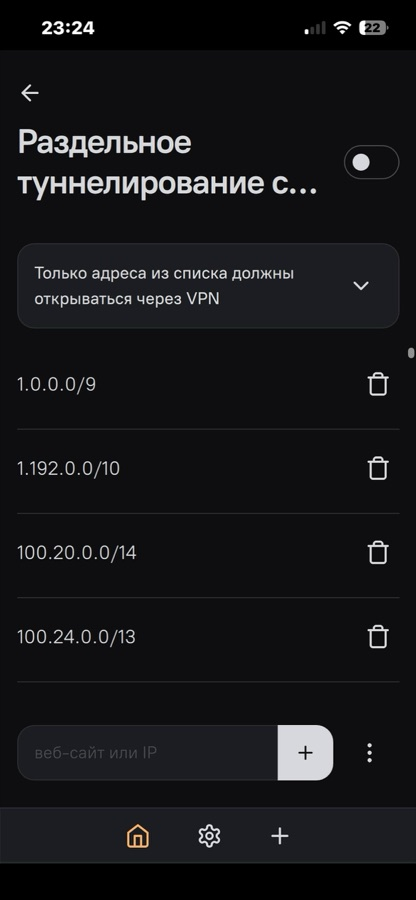
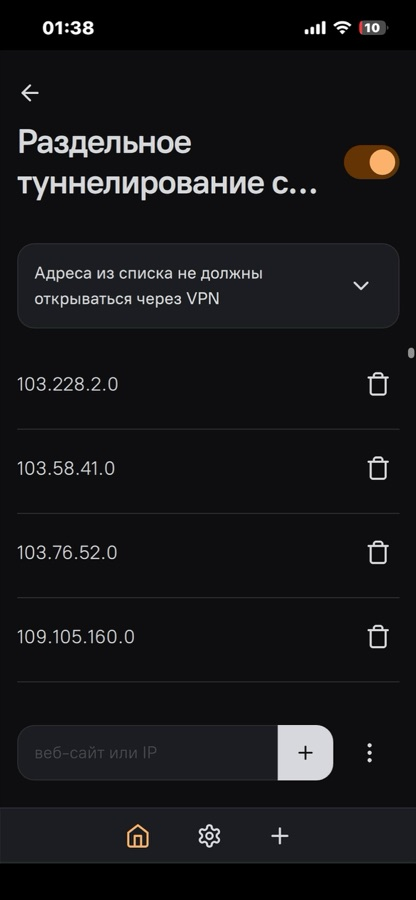
Телевизор в списке платформ, новый экран сплита, логотип с новым адресом
Логотип у людей оставался старым даже после выкладки: браузер держал
/assets/logo.png в своём кэше, а имя файла не менялось. Знак переехал на
logo-v2.png — новый адрес кэшировать нечем; иконки вкладки просят с ?v=2 по
той же причине.

Кнопки App Store и Google Play убраны из подвала: приложений в магазинах у
нас нет — Android ставится файлом с сайта, на iPhone подключаются ключом.
Кнопка в магазин, за которой ничего нет, обманывает раньше, чем человек
дочитает подпись.

Телевизор добавлен туда, где перечисляются платформы: он давно поддержан
(та же сборка, что для Android), а в списках его не было.

Экран раздельного туннелирования в инструкции заменён на настоящий, с
телефона. Заодно исправлен режим: список у нас — российские сети, и в
AmneziaVPN нужно «адреса из списка НЕ должны открываться через VPN».
В макете было наоборот — по той инструкции человек завернул бы в туннель
ровно то, что должно идти мимо, и остался бы без Госуслуг и банков.

diff --git a/web/src/components/site-footer.css b/web/src/components/site-footer.css
@@ -18,7 +18,7 @@
 }
 .sf-cols {
   display: grid;
-  grid-template-columns: repeat(4, minmax(0, 1fr));
+  grid-template-columns: repeat(3, minmax(0, 1fr));
   gap: 32px;
   font-size: 16px;
 }
@@ -33,49 +33,6 @@
 }
 .sf-cols a:hover {
   color: var(--accent);
-}
-.sf-stores {
-  gap: 12px !important;
-}
-/*
- * Кнопки сторов стоят друг под другом и одинаковой ширины, поэтому
- * содержимое прижато влево, а не отцентровано. При центровке иконки
- * разъезжались по горизонтали: подписи разной длины («App Store» короче
- * «Google Play»), и каждая иконка вставала на своём отступе — 40 и 31
- * точка. Столбиком это читалось как кривая вёрстка.
- */
-.sf-store {
-  width: 190px;
-  font-size: 15px;
-  padding: 13px 22px;
-  justify-content: flex-start;
-}
-/*
- * Подпись на кнопке стора.
- *
- * Правило существует из-за соседнего `.sf-cols a`: у него специфичность выше,
- * чем у `.btn-dark`, и цвет ссылки перебивал цвет кнопки — тёмный текст на
- * тёмной заливке, то есть пустой прямоугольник. В светлой теме это было видно
- * и до тёмной, просто некому было заметить.
- */
-.sf-cols .sf-store,
-.sf-cols .sf-store:hover {
-  color: var(--on-ink);
-}
-/*
- * Иконки сторов — разной формы: у одной пропорция 1.04, у другой 0.88.
- * При заданной только высоте они получали разную ширину, и кнопки рядом
- * выглядели кривыми. Поэтому обе кладём в одинаковую квадратную коробку и
- * вписываем целиком: занимаемое место совпадает, рисунок не искажается.
- */
-.sf-store picture {
-  display: flex;
-  flex: none;
-}
-.sf-store img {
-  width: 22px;
-  height: 22px;
-  object-fit: contain;
 }
 .sf-contact {
   display: flex;
@@ -138,17 +95,6 @@
     gap: 14px;
   }
   /* Кнопки сторов занимают всю ширину столбца — так в них легче попасть. */
-  .sf-stores {
-    grid-column: 1 / -1;
-    flex-direction: row;
-  }
-  .sf-store {
-    width: auto;
-    flex: 1;
-    padding: 12px 16px;
-    font-size: 14px;
-    justify-content: center;
-  }
   .sf-contact a {
     font-size: 18px;
   }

diff --git a/web/src/lib/i18n/ru.js b/web/src/lib/i18n/ru.js
@@ -52,7 +52,7 @@ export const ru = {
         "настроек и без ограничения скорости.",
       primary: "Начать использовать",
       ghost: "Как это работает",
-      platforms: "iOS · Android · macOS · Windows",
+      platforms: "iOS · Android · macOS · Windows · TV",
     },
 
     features: {
@@ -148,7 +148,7 @@ export const ru = {
 
     devices: {
       title: "Одна подписка — все устройства",
-      text: "iPhone, Android, Mac и Windows. Одновременных подключений — {devices}.",
+      text: "iPhone, Android, Mac, Windows и телевизор. Одновременных подключений — {devices}.",
     },
 
     docs: {
@@ -304,12 +304,12 @@ export const ru = {
       steps: [
         ["Скачайте список адресов", "В личном кабинете или в боте — файл с российскими диапазонами."],
         ["Откройте «Раздельное VPN-туннелирование»", "В AmneziaVPN раздел лежит в настройках соединения."],
-        ["Выберите режим списка", "«Только адреса из списка должны открываться через VPN» — всё остальное пойдёт напрямую."],
+        ["Выберите режим списка", "«Адреса из списка не должны открываться через VPN» — российские сети пойдут напрямую, остальное останется в туннеле."],
         ["Импортируйте файл", "Дополнительные настройки → Импорт → «Заменить список с сайтами». Готово."],
       ],
       shots: [
         "Раздел в настройках соединения",
-        "Режим «только адреса из списка»",
+        "Режим «адреса из списка — мимо VPN»",
         "Дополнительные настройки → Импорт",
         "Заменить список с сайтами",
       ],

diff --git a/web/src/components/SiteFooter.jsx b/web/src/components/SiteFooter.jsx
@@ -17,7 +17,7 @@ export function SiteFooter() {
   return (
     <footer className="sf">
       <div className="wrap sf-in">
-        <Picture className="sf-logo" src="/assets/logo.png" alt="PROSTO" />
+        <Picture className="sf-logo" src="/assets/logo-v2.png" alt="PROSTO" />
 
         <div className="sf-cols">
           <div>
@@ -56,19 +56,11 @@ export function SiteFooter() {
                 а платёжные вопросы всё равно приходят письмом. */}
             <a href={SUPPORT_MAILTO}>{t("footer.email")}</a>
           </div>
-          {/* В кабинет, а не на форму входа: вошедшего она отправляла
-              вводить логин заново, хотя он уже вошёл. Гостя туда же не
-              пустит Private и вернёт сюда после входа. */}
-          <div className="sf-stores">
-            <Link to="/account?tab=setup" className="btn btn-dark sf-store">
-              <Picture src="/assets/ic-appstore.png" />
-              App Store
-            </Link>
-            <Link to="/account?tab=setup" className="btn btn-dark sf-store">
-              <Picture src="/assets/ic-googleplay.png" />
-              Google Play
-            </Link>
-          </div>
+          {/* Кнопок сторов здесь нет намеренно: приложений в App Store и
+              Google Play у нас не публикуется — Android ставится файлом с
+              сайта, а на iPhone подключаются ключом. Кнопка в магазин, за
+              которой ничего нет, обманывает раньше, чем человек дочитает
+              подпись; вместо неё — ссылка на инструкцию. */}
         </div>
 
         <div className="sf-contact">

diff --git a/web/src/lib/i18n/en.js b/web/src/lib/i18n/en.js
@@ -47,7 +47,7 @@ export const en = {
         "and no throttling.",
       primary: "Get started",
       ghost: "How it works",
-      platforms: "iOS · Android · macOS · Windows",
+      platforms: "iOS · Android · macOS · Windows · TV",
     },
 
     features: {
@@ -142,7 +142,7 @@ export const en = {
 
     devices: {
       title: "One subscription — every device",
-      text: "iPhone, Android, Mac and Windows. Simultaneous connections — {devices}.",
+      text: "iPhone, Android, Mac, Windows and TV. Simultaneous connections — {devices}.",
     },
 
     docs: {
@@ -290,12 +290,12 @@ export const en = {
       steps: [
         ["Download the address list", "In your account or in the bot — a file with Russian ranges."],
         ["Open split tunneling", "In AmneziaVPN the section lives in the connection settings."],
-        ["Choose the list mode", "«Only addresses from the list should open through the VPN» — everything else goes direct."],
+        ["Choose the list mode", "«Addresses from the list should not open through the VPN» — Russian networks go direct, the rest stays in the tunnel."],
         ["Import the file", "Advanced settings → Import → replace the site list. Done."],
       ],
       shots: [
         "The section in connection settings",
-        "Mode: only addresses from the list",
+        "Mode: list goes around the VPN",
         "Advanced settings → Import",
         "Replace the site list",
       ],

diff --git a/web/index.html b/web/index.html
@@ -10,9 +10,9 @@
     />
     <meta name="theme-color" content="#FA4C16" />
     <!-- Иконка сайта — та же оранжевая плитка, что у десктопного клиента. -->
-    <link rel="icon" href="/assets/favicon.ico" sizes="any" />
-    <link rel="icon" href="/assets/icon-512.png" type="image/png" sizes="512x512" />
-    <link rel="apple-touch-icon" href="/assets/apple-touch-icon.png" />
+    <link rel="icon" href="/assets/favicon.ico?v=2" sizes="any" />
+    <link rel="icon" href="/assets/icon-512.png?v=2" type="image/png" sizes="512x512" />
+    <link rel="apple-touch-icon" href="/assets/apple-touch-icon.png?v=2" />
     <link rel="preconnect" href="https://fonts.googleapis.com" />
     <link rel="preconnect" href="https://fonts.gstatic.com" crossorigin />
     <link

diff --git a/panel/src/layout/Sidebar.jsx b/panel/src/layout/Sidebar.jsx
@@ -13,7 +13,7 @@ export function Sidebar({ open, onNavigate, admin, onLogout }) {
           и тот же логотип на обоих концах избавляет от вопроса «туда ли я
           попал». Путь с base — панель живёт на /admin/. */}
       <div className="ax-brand">
-        <img className="ax-brand-logo" src={`${import.meta.env.BASE_URL}logo.png`} alt="PROSTO" />
+        <img className="ax-brand-logo" src={`${import.meta.env.BASE_URL}logo-v2.png`} alt="PROSTO" />
         <span className="ax-brand-sub">панель</span>
       </div>
 

diff --git a/web/src/components/SiteHeader.jsx b/web/src/components/SiteHeader.jsx
@@ -46,7 +46,7 @@ export function SiteHeader() {
     <header className={`sh${scrolled ? " sh-solid" : ""}`}>
       <div className="wrap sh-in">
         <Link to="/" className="sh-logo" onClick={toTop}>
-          <Picture src="/assets/logo.png" alt="PROSTO" />
+          <Picture src="/assets/logo-v2.png" alt="PROSTO" />
         </Link>
         <nav className="sh-nav">
           <a href={section("speed")}>{t("nav.speed")}</a>

diff --git a/web/src/pages/Landing.jsx b/web/src/pages/Landing.jsx
@@ -533,7 +533,7 @@ export function Landing() {
             <p>{t("landing.devices.text", { devices: devicesLabel })}</p>
           </Reveal>
           <Reveal className="ld-devices-tags" delay={120}>
-            {["iOS", "Android", "macOS", "Windows"].map((tag) => (
+            {["iOS", "Android", "macOS", "Windows", "TV"].map((tag) => (
               <span key={tag}>{tag}</span>
             ))}
           </Reveal>

diff --git a/web/src/pages/Account.jsx b/web/src/pages/Account.jsx
@@ -64,7 +64,7 @@ export function Account() {
       <header className="ac-header">
         <div className="wrap ac-header-in">
           <Link to="/" className="ac-logo">
-            <Picture src="/assets/logo.png" alt="PROSTO" />
+            <Picture src="/assets/logo-v2.png" alt="PROSTO" />
           </Link>
           <nav className="ac-tabs">
             {TABS.map((id) => (

diff --git a/web/src/pages/NotFound.jsx b/web/src/pages/NotFound.jsx
@@ -6,7 +6,7 @@ export function NotFound() {
   const t = useT();
   return (
     <div className="nf">
-      <img className="nf-logo" src="/assets/logo.png" alt="PROSTO" />
+      <img className="nf-logo" src="/assets/logo-v2.png" alt="PROSTO" />
       <div className="nf-code">404</div>
       <h1>{t("notFound.title")}</h1>
       <p>{t("notFound.text")}</p>
